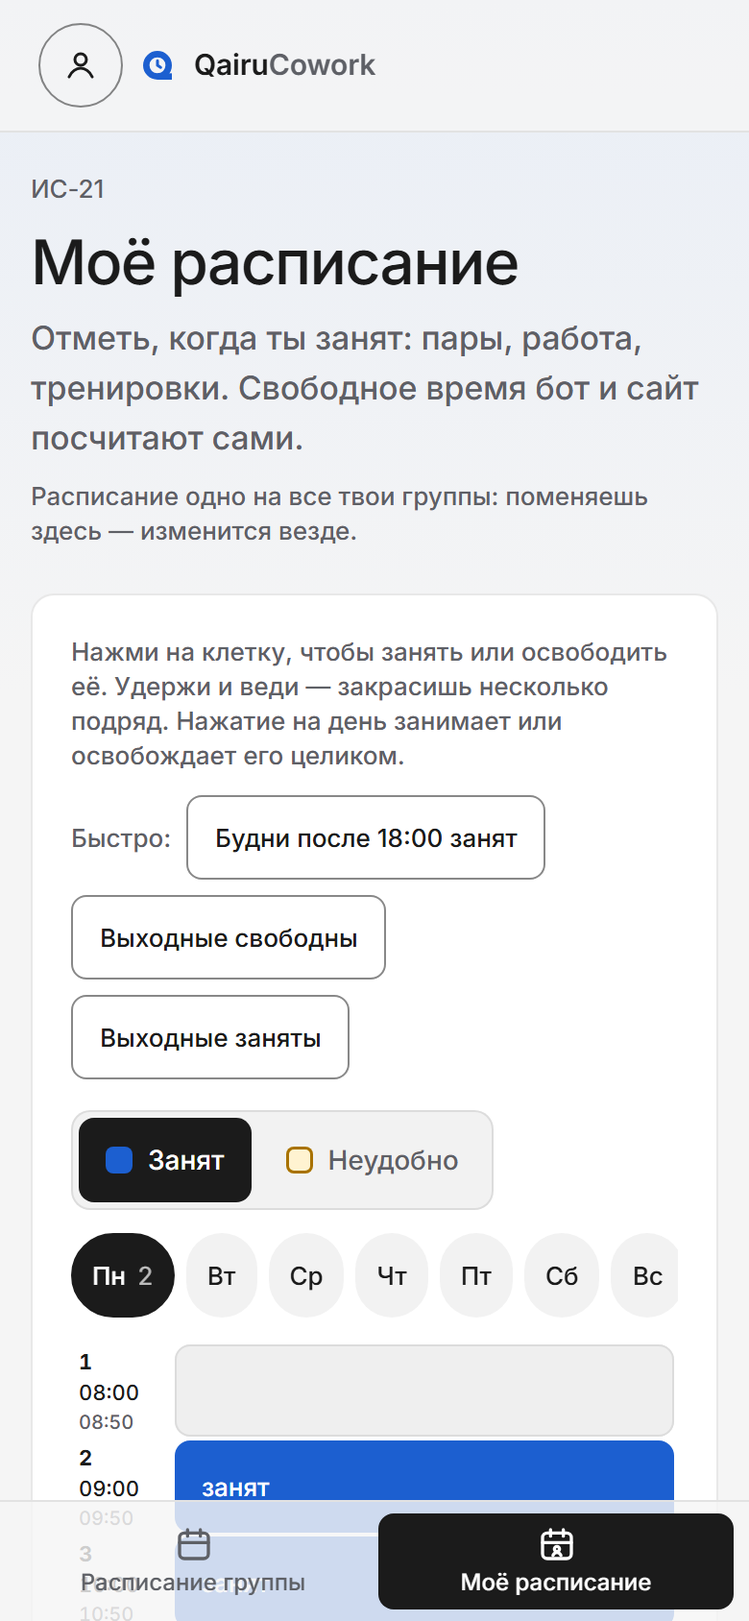
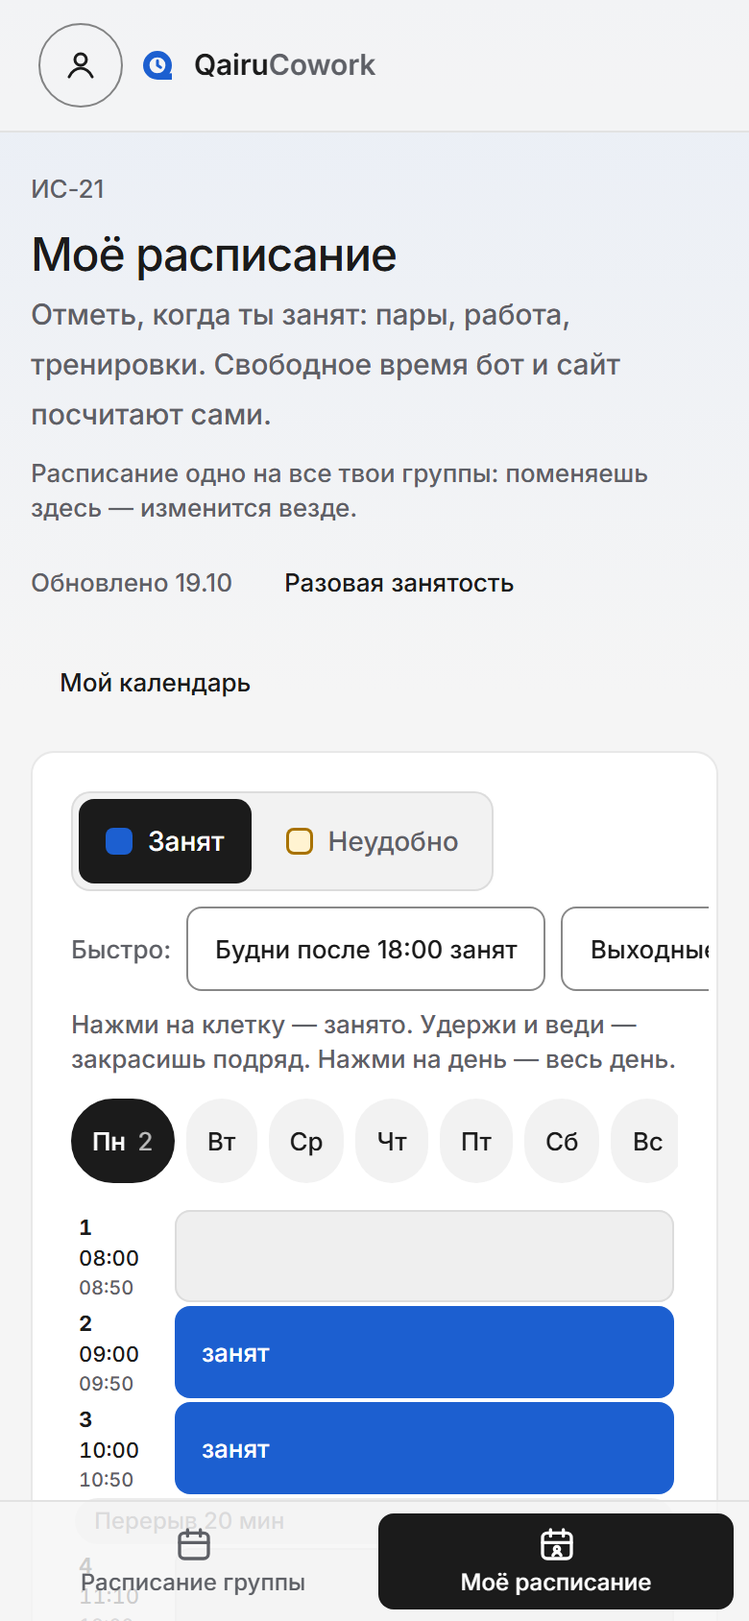
README: шапка, оглавление, возможности, схема устройства, частые вопросы; свежие скриншоты

Changed region(s): [[0.0615, 0.4005, 0.9231, 1.0], [0.0308, 0.1232, 0.9231, 0.3697], [0.8, 0.5853, 0.9538, 0.6161]]

diff --git a/README.md b/README.md
@@ -1,57 +1,124 @@
+<a id="top"></a>
+
+<div align="center">
+
+<img src="src/app/icon-192.png" width="96" height="96" alt="Знак QairuCowork">
+
 # QairuCowork
 
-**[Открыть сайт](https://qairu-cowork.vercel.app)** · **[Бот @QairuCoworkbot](https://t.me/QairuCoworkbot)** ·
+**Общие свободные окна для студенческой группы и встреча в два касания.**<br>
+Каждый один раз отмечает свои пары, а сайт и Telegram-бот сами находят, когда свободны все.
+
+[**Открыть сайт**](https://qairu-cowork.vercel.app) ·
+[**Бот @QairuCoworkbot**](https://t.me/QairuCoworkbot) ·
+[Расширение для кампуса](https://qairu-cowork.vercel.app/extension) ·
+[Деплой](DEPLOY.md) ·
+[Архитектура](DESIGN.md)
+
 [![CI](https://github.com/wypas0/qairu-cowork/actions/workflows/ci.yml/badge.svg)](https://github.com/wypas0/qairu-cowork/actions/workflows/ci.yml)
+[![Smoke](https://github.com/wypas0/qairu-cowork/actions/workflows/smoke.yml/badge.svg)](https://github.com/wypas0/qairu-cowork/actions/workflows/smoke.yml)
+![Next.js 16](https://img.shields.io/badge/Next.js-16-000?logo=nextdotjs)
+![TypeScript](https://img.shields.io/badge/TypeScript-strict-3178c6?logo=typescript&logoColor=white)
+![PostgreSQL](https://img.shields.io/badge/PostgreSQL-Supabase-3ecf8e?logo=supabase&logoColor=white)
+![Языки](https://img.shields.io/badge/языки-ru%20·%20kk%20·%20en-0064e0)
 
-Находит **общие свободные окна** у студентов из одной группы и помогает договориться о встрече.
-Работает двумя лицами одного продукта: **сайт** и **телеграм-бот** — общая база, общее ядро расчёта.
+<img src="docs/screenshots/home.png" alt="Главная страница QairuCowork: «Когда у всех есть общее окно?»" width="860">
 
-![Главная страница QairuCowork](docs/screenshots/home.png)
-
-Стек: Next.js 16 (App Router) · TypeScript · Drizzle ORM · PostgreSQL (Supabase) · Vitest · Playwright
-Языки интерфейса: 🇷🇺 русский · 🇰🇿 қазақша · 🇬🇧 english
-
+</div>
 
 ---
 
+## Содержание
+
+- [Зачем это](#зачем-это)
+- [Возможности](#возможности)
+- [Как начать](#как-начать)
+- [Как это выглядит](#как-это-выглядит)
+- [Как внести расписание](#как-внести-расписание)
+- [Команды бота](#команды-бота)
+- [Страницы сайта](#страницы-сайта)
+- [Как это устроено](#как-это-устроено)
+- [Собрать и запустить](#собрать-и-запустить)
+- [Частые вопросы](#частые-вопросы)
+- [Документация](#документация)
+
+## Зачем это
+
+Договориться о встрече в группе из двадцати человек — это полчаса переписки «а мне в 15:00 не могу».
+QairuCowork убирает эту переписку: каждый **один раз** отмечает, когда занят (пары, работа, тренировки),
+и дальше карта недели показывает, когда свободны все или почти все. Назначил время — бот разослал
+приглашения, собрал ответы и напомнил перед началом.
+
+Сайт и бот — **два лица одного продукта**: одна база, одно ядро расчёта, один вход через Telegram.
+Расписание принадлежит человеку, а не чату: одно на все его группы — поправил в одной, изменилось везде.
+
+## Возможности
+
+- 🗓 **Карта недели** — цвет каждой пары показывает, сколько человек свободно. Наведи на имя — видно,
+  когда свободен этот человек; протяни мышью по клеткам дня — время встанет в форму встречи.
+- ⭐ **Лучшее время и общие окна** — готовые варианты с кнопками «Назначить» и «Скопировать для чата».
+  Можно выбрать длительность, убрать тех, без кого можно обойтись, и задать кворум («свободны 80%»).
+- 🟨 **«Занят» и «неудобно»** — «неудобно» значит «могу, но лучше не надо»: такие окна предлагаются последними.
+- 🔁 **Числитель и знаменатель** — пары «через неделю» считаются от даты начала семестра.
+- 📅 **Личный календарь** — подключи свой `.ics` по ссылке, и занятость подтянется сама.
+- 🧩 **Расширение для кампуса** — переносит пары с campus.qairu.edu.kz одной кнопкой.
+- 🤝 **Встречи** — приглашения с ответами кнопками, напоминания, итоги, «Повторить» и выгрузка в календарь.
+- 🤖 **Бот в чате группы** — `/free` показывает общие окна, `/meeting` назначает встречу с опросом;
+  бот предупреждает, если встреча легла на чьё-то занятое время.
+- 📱 **Телефон и Telegram** — на телефоне один день крупными строками, дни листаются свайпом; внутри
+  Telegram сайт открывается как мини-приложение без входа.
+- ⌨ **Клавиатура** — по карте и по сетке расписания можно ходить стрелками.
+- 🌐 **Три языка** — русский, қазақша, english.
+
+<p align="right"><a href="#top">↑ наверх</a></p>
+
 ## Как начать
 
-1. Открой [@QairuCoworkbot](https://t.me/QairuCoworkbot) и нажми `/start` — сайт откроется прямо в Telegram,
-   входить не нужно. В обычном браузере — [qairu-cowork.vercel.app](https://qairu-cowork.vercel.app),
+1. Открой [@QairuCoworkbot](https://t.me/QairuCoworkbot) и нажми `/start` — сайт откроется прямо
+   в Telegram, входить не нужно. В обычном браузере — [qairu-cowork.vercel.app](https://qairu-cowork.vercel.app),
    кнопка «Войти через Telegram» и подтверждение в боте.
 2. Староста нажимает «Создать группу» и зовёт одногруппников ссылкой или QR-кодом. Можно и из чата:
    добавить бота в чат группы и написать `/setup`.
-3. Каждый один раз отмечает свою занятость в «Моём расписании»: переносит пары из кампуса расширением или
-   закрашивает клетки.
-4. Карта недели показывает, когда свободны все. «Назначить» — и бот разошлёт приглашения, соберёт ответы
-   и напомнит перед встречей.
-
-## Что это
-
-Каждый **один раз** отмечает, когда он занят — парами, работой, тренировками. Дальше:
-
-- **на сайте**: карта недели, где цветом видно, сколько человек свободно в каждую пару. Наведи на имя —
-  карта покажет, когда этот человек свободен; протяни мышью по клеткам дня — время встанет в форму встречи;
-  на телефоне — один день крупными строками, дни листаются свайпом. «Лучшее время», общие окна с кнопкой
-  «Скопировать для чата», встречи с ответами, итогами и кнопкой «Повторить»; по карте и по сетке
-  расписания можно ходить стрелками;
-- **в своём расписании**: пары и работа («занят») и «неудобно» — могу, но лучше не надо; такие окна
-  предлагаются последними. На телефоне — по одному дню крупными клетками. Можно подключить личный
-  календарь по ссылке .ics — занятость подтянется сама;
-- **в чате**: `/free` показывает общие окна, `/meeting` назначает встречу с опросом; бот
-  напоминает о встречах, присылает итоги и предупреждает, если встреча легла на занятое время.
-
-Расписание принадлежит человеку, а не чату: одно на все его группы — поправил в одной, изменилось везде.
+3. Каждый один раз отмечает свою занятость в «Моём расписании»: переносит пары из кампуса расширением
+   или закрашивает клетки.
+4. Карта недели показывает, когда свободны все. «Назначить» — и бот разошлёт приглашения, соберёт
+   ответы и напомнит перед встречей.
 
 ## Как это выглядит
 
-![Карта недели и общие окна](docs/screenshots/week.png)
+**Карта недели**, лучшее время и общие окна:
 
-![Моё расписание: «занят» и «неудобно»](docs/screenshots/me.png)
+![Карта недели группы ИС-21 с лучшим временем и общими окнами](docs/screenshots/week.png)
 
-| Карта недели на телефоне | Своё расписание на телефоне |
-|---|---|
-| <img src="docs/screenshots/week-phone.png" width="300" alt="Карта недели на телефоне"> | <img src="docs/screenshots/me-phone.png" width="300" alt="Моё расписание на телефоне"> |
+**Моё расписание**: кисти «Занят» и «Неудобно», быстрые шаблоны, разовая занятость и личный календарь:
+
+![Моё расписание: сетка пар с отметками «занят» и «неудобно»](docs/screenshots/me.png)
+
+| Неделя на телефоне | Своё расписание на телефоне |
+|:---:|:---:|
+| <img src="docs/screenshots/week-phone.png" width="300" alt="Карта недели на телефоне: один день, у каждой пары видно, кто свободен"> | <img src="docs/screenshots/me-phone.png" width="300" alt="Моё расписание на телефоне: один день крупными клетками"> |
+
+<sub>Скриншоты сняты с демо-базы (`scripts/dev/e2e-server.mjs`), все имена выдуманы.</sub>
+
+## Как внести расписание
+
+Пустое «Моё расписание» начинается с выбора из двух путей:
+
+- **Расширение для кампуса** — страница [`/extension`](https://qairu-cowork.vercel.app/extension):
+  установка по шагам, обновление, частые проблемы, приватность. Расширение читает пары с
+  campus.qairu.edu.kz и показывает их на сетке для проверки; сохраняются они только по кнопке «Сохранить».
+  Если оно стоит, вверху редактора есть кнопка «Перенести из кампуса»: сайт открывает кампус,
+  расширение предлагает перенос карточкой в углу и возвращает обратно.
+- **Сетка** — закрасить пары клетками мышью или пальцем; кисть «Неудобно» — для времени, которое
+  лучше не занимать.
+
+> [!IMPORTANT]
+> Чтобы заработала чётность недель, староста задаёт «Начало семестра» в настройках группы. Без этой
+> даты пары «через неделю» **не учитываются** — сайт не угадывает, какая неделя сейчас.
+
+Экзамены, сессии и поездки — «Разовая занятость» там же: дата, период или «весь день».
+
+<p align="right"><a href="#top">↑ наверх</a></p>
 
 ## Команды бота
 
@@ -60,7 +127,8 @@
 занятость и настройки группы — на сайте; старые команды (`/schedule`, `/busy`, `/settings` и другие)
 отвечают кнопкой туда.
 
-**В личке**
+<details>
+<summary><b>В личке</b></summary>
 
 | Команда | Что делает |
 |---|---|
@@ -69,7 +137,10 @@
 | `/help` | справка |
 | код группы | прислать боту — добавит в группу |
 
-**В группе**
+</details>
+
+<details open>
+<summary><b>В группе</b></summary>
 
 | Команда | Что делает |
 |---|---|
@@ -85,45 +156,78 @@
 | `/link` | открыть группу на сайте |
 | `/lang` | язык бота в чате (админ) |
 
+</details>
 
 ## Страницы сайта
 
+<details>
+<summary><b>Все адреса</b></summary>
+
 | Адрес | Что там |
 |---|---|
-| `/` | витрина продукта для всех; у вошедшего группы, вход по коду и «Создать группу» — в сайдбаре (на компьютере полоса слева, раскрывается наведением мыши; на телефоне кнопка «Мои группы») |
-| `/g/{slug}` | карта недели, общие окна, встречи, участники, настройки |
-| `/g/{slug}/me` | своя сетка («занят» и «неудобно»), расписание с фото или файлом, разовая занятость, личный календарь |
+| `/` | витрина продукта; у вошедшего — группы, вход по коду и «Создать группу» в сайдбаре (на компьютере полоса слева, раскрывается наведением; на телефоне кнопка «Мои группы») |
+| `/g/{slug}` | карта недели, лучшее время, общие окна, встречи, участники, настройки |
+| `/g/{slug}/me` | своя сетка («занят» и «неудобно»), перенос из кампуса, разовая занятость, личный календарь |
 | `/g/{slug}/join` | вход по ссылке-приглашению |
 | `/g/{slug}/qr` | QR-код приглашения на весь экран — для проектора в аудитории |
 | `/g/{slug}/meetings/{id}.ics` | встреча файлом для календаря |
-| `/extension` | расширение Chrome для кампуса: гайд в духе README (установка по шагам, обновление, частые проблемы, приватность) и живая проверка «установлено, версия …» |
+| `/extension` | расширение Chrome для кампуса: установка, обновление, проверка «установлено, версия …» |
+| `/admin` | консоль владельца (для остальных — 404), см. [DEPLOY.md](DEPLOY.md#шаг-8-по-желанию-консоль-владельца-admin) |
 
-**Паролей нет — вход только через Telegram.** Внутри Telegram сайт открывается кнопкой бота и узнаёт
-человека по подписанному `initData`; в браузере — кнопка «Войти через Telegram» и подтверждение в боте.
-Поэтому пользователь сайта и пользователь бота — один и тот же человек.
+</details>
 
----
+**Паролей нет — вход только через Telegram.** Внутри Telegram сайт узнаёт человека по подписанному
+`initData`; в браузере — кнопка «Войти через Telegram» и подтверждение в боте. Поэтому пользователь
+сайта и пользователь бота — один и тот же человек.
 
-## Как внести расписание
+<p align="right"><a href="#top">↑ наверх</a></p>
 
-В «Моём расписании» два пути — пустое расписание начинается с выбора между ними:
+## Как это устроено
 
-- **расширение для кампуса** (страница `/extension`, код — в отдельном репозитории `qairu-schedule-ext`) —
-  читает пары с campus.qairu.edu.kz и показывает их на сетке для проверки; сохраняются они только по кнопке
-  «Сохранить». Если оно стоит (с 0.4.0), вверху редактора кнопка «Перенести из кампуса»: сайт сообщает
-  расширению группу и открывает кампус, там расширение само предлагает перенос карточкой в углу и
-  возвращает на эту страницу. Новую версию кладёт на сайт
-  `npm run release` в репозитории расширения; номер версии — `LATEST_EXTENSION` в `src/core/extensionImport.ts`;
-- **сетка** — закрасить пары клетками мышью или пальцем; кисть «Неудобно» — для времени, которое лучше не занимать.
+```mermaid
+flowchart LR
+  S(["Студент"])
+  S -->|"браузер / мини-приложение"| W["Сайт<br/>Next.js App Router"]
+  S -->|"чат группы"| TG["Telegram"]
+  TG -->|"вебхук"| B["Бот<br/>/api/telegram/webhook"]
+  X["Расширение Chrome<br/>campus.qairu.edu.kz"] -->|"пары"| W
+  ICS["Личный календарь .ics"] -->|"занятость"| W
+  W --> C["Ядро src/core<br/>окна, сетка, повторы, .ics"]
+  B --> C
+  W --> DB[("PostgreSQL<br/>Supabase")]
+  B --> DB
+  CRON["GitHub Actions<br/>каждые 10 минут"] -->|"/api/cron/reminders"| B
+  B -->|"приглашения, напоминания"| TG
+```
 
-Загрузки скриншота или файла с расписанием больше нет (убрана 11.10.2026).
+Сайт и бот живут в одном Next.js-проекте и делят ядро расчёта (`src/core/` — чистые функции без
+базы и сети) и базу. Почему так, как устроены модель данных и алгоритм поиска окон — в [DESIGN.md](DESIGN.md).
 
-Чтобы заработала чётность, староста задаёт «Начало семестра» в настройках группы. Без этой даты пары
-«через неделю» **не учитываются** — сайт не угадывает, какая неделя сейчас.
+| Слой | Что используется |
+|---|---|
+| Сайт и API | Next.js 16 (App Router, server actions), React 19, TypeScript |
+| База | PostgreSQL в Supabase, Drizzle ORM + `postgres`, миграции в `drizzle/` |
+| Бот | Telegram Bot API через вебхук — маршрут того же Next.js-проекта |
+| Хостинг | Vercel; cron напоминаний — GitHub Actions |
+| Тесты | Vitest (ядро и логика), Playwright (сквозные, в том числе телефон и масштаб 67–200%) |
+| Стили | свой CSS по разделам в `src/styles/`; от Tailwind — только сброс стилей |
 
-Экзамены, сессии и поездки — «Разовая занятость» там же, в «Моём расписании»: дата, период или «весь день».
+<details>
+<summary><b>Где что лежит</b></summary>
 
----
+| Путь | Что там |
+|---|---|
+| `src/core/` | ядро: интервалы, окна, сетка, повторы, `.ics`, QR |
+| `src/db/` | схема, клиент, запросы по темам в `queries/` |
+| `src/bot/` | бот: `router.ts`, `handlers/` |
+| `src/app/` | страницы и API-маршруты |
+| `src/components/` | интерфейс; `board/` — доска группы |
+| `src/i18n/` | строки: `ru.ts` — эталон, `kk.ts` и `en.ts` с теми же ключами |
+| `drizzle/` | миграции базы |
+| `scripts/` | проверка схемы, вебхук, проверка прода после деплоя, нагрузочный тест, локальная база |
+| `tests/`, `e2e/` | модульные и сквозные тесты |
+
+</details>
 
 ## Собрать и запустить
 
@@ -135,8 +239,8 @@ npx next build
 node scripts/dev/e2e-server.mjs 3200
 ```
 
-Скрипт поднимает Postgres в памяти (PGlite), заводит демо-группу «ИС-21» с пятью участниками и встречами
-и запускает сайт на <http://localhost:3200>. Войти: в консоли браузера выполнить
+Скрипт поднимает Postgres в памяти (PGlite), заводит демо-группу «ИС-21» с пятью участниками и
+встречами и запускает сайт на <http://127.0.0.1:3200>. Войти: в консоли браузера выполнить
 `document.cookie = "qairu_token=<токен из терминала>; path=/"` и открыть `/g/smoke001`.
 
 Проверки — те же, что гоняет CI на каждый пуш:
@@ -145,6 +249,56 @@ node scripts/dev/e2e-server.mjs 3200
 npm run typecheck && npm run lint && npm test && npm run e2e
 ```
 
-Свой экземпляр с базой в Supabase, сайтом на Vercel и ботом — пошагово в **[DEPLOY.md](DEPLOY.md)**.
-Для локальной сборки используй `npx next build`: `npm run build` дополнительно сверяет схему базы и
-регистрирует вебхук бота из `BOT_TOKEN`.
+> [!NOTE]
+> Для локальной сборки используй `npx next build`: `npm run build` дополнительно сверяет схему базы
+> и регистрирует вебхук бота из `BOT_TOKEN`.
+
+Свой экземпляр с базой в Supabase, сайтом на Vercel и ботом — пошагово в **[DEPLOY.md](DEPLOY.md)**:
+переменные окружения, миграции, cron, мониторинг и что делать, если что-то сломалось.
+
+<p align="right"><a href="#top">↑ наверх</a></p>
+
+## Частые вопросы
+
+<details>
+<summary><b>У меня нет Telegram. Можно без него?</b></summary>
+
+Нет: вход только через Telegram, паролей нет. Зато ничего не нужно запоминать, а приглашения и
+напоминания приходят туда же, где и так общается группа.
+</details>
+
+<details>
+<summary><b>Видят ли одногруппники, чем я занят?</b></summary>
+
+Группа видит только, свободен человек в каждую пару или нет, и отметку «неудобно».
+Названия пар и причины занятости видны лишь тебе самому, в «Моём расписании».
+</details>
+
+<details>
+<summary><b>Я в нескольких группах. Заполнять расписание в каждой?</b></summary>
+
+Нет. Расписание одно на человека и общее для всех его групп.
+</details>
+
+<details>
+<summary><b>Почему пары «через неделю» не учитываются?</b></summary>
+
+Староста не задал «Начало семестра» в настройках группы. Без этой даты сайт не знает, какая
+сейчас неделя — числитель или знаменатель.
+</details>
+
+<details>
+<summary><b>Как добавить экзамен или поездку?</b></summary>
+
+«Моё расписание» → «Разовая занятость»: конкретная дата, период или весь день.
+</details>
+
+## Документация
+
+| Файл | О чём |
+|---|---|
+| [DESIGN.md](DESIGN.md) | цель, ограничения Telegram, модель данных, алгоритм окон, сценарии, риски |
+| [DEPLOY.md](DEPLOY.md) | деплой по шагам, переменные окружения, cron, мониторинг, частые поломки |
+| [scripts/load/README.md](scripts/load/README.md) | нагрузочный тест бота и сайта (`npm run load`) |
+
+<p align="right"><a href="#top">↑ наверх</a></p>
